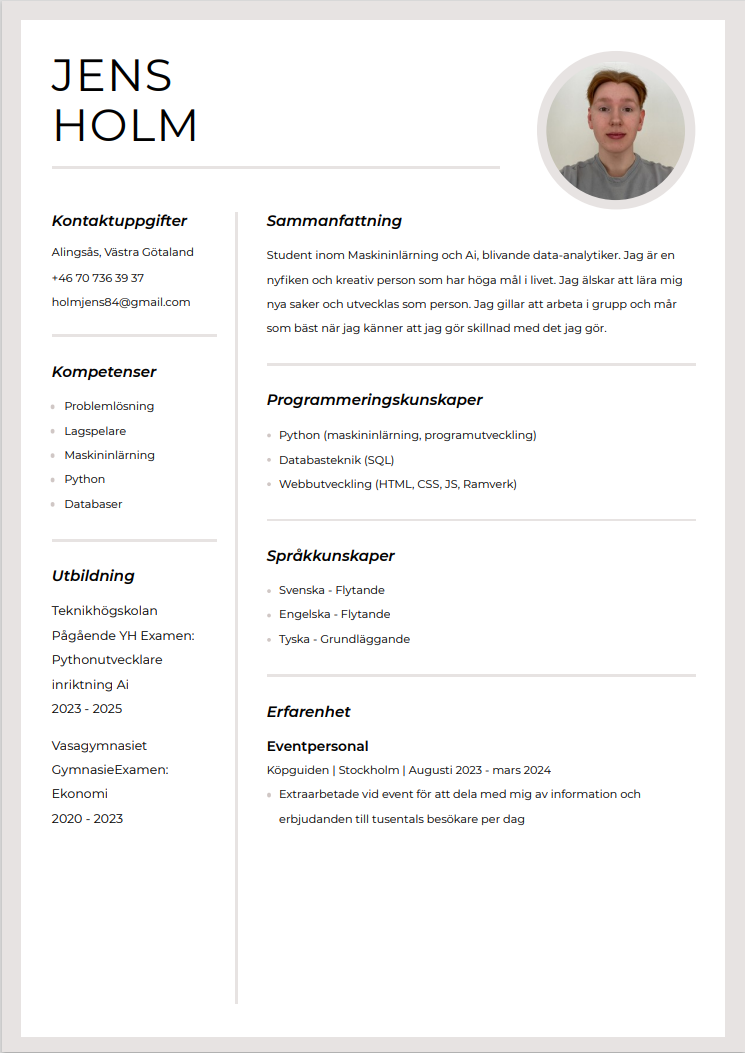
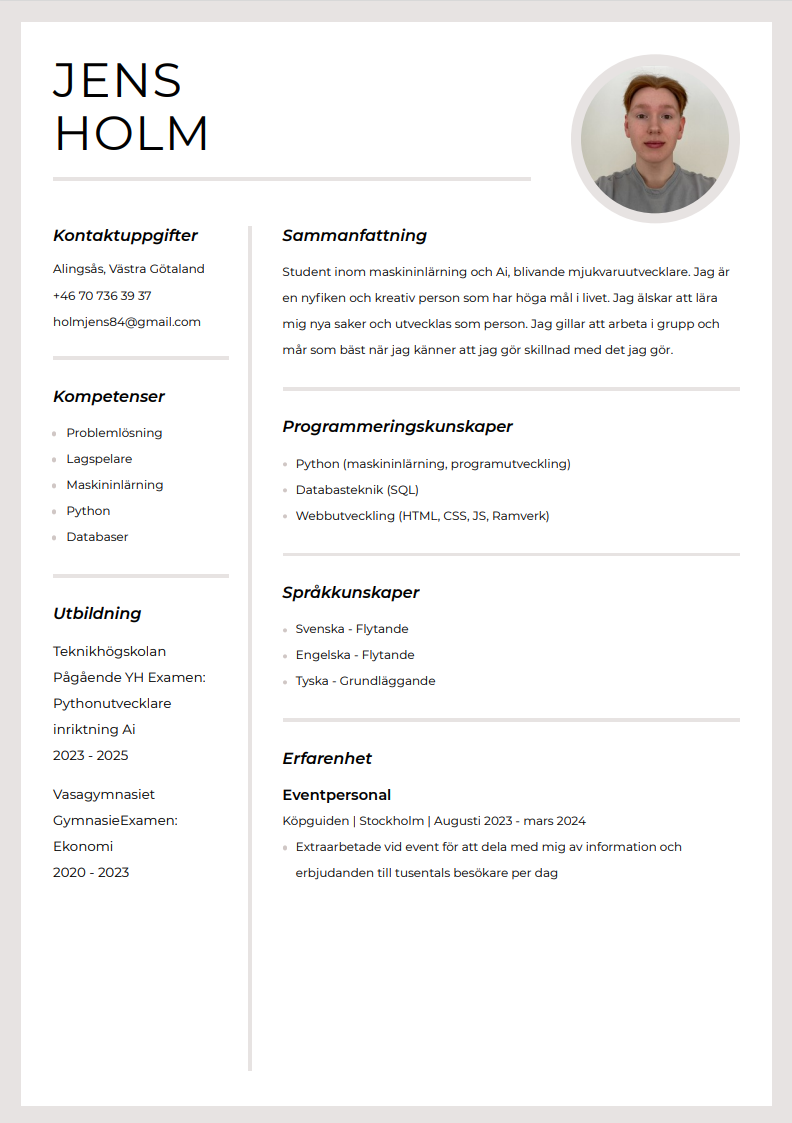
bytt inriktning

diff --git a/css/styles.css b/css/styles.css
@@ -50,7 +50,7 @@ body {
     margin-left: 1%;
     margin-top: 1%;
     min-height: 200px;
-    max-height: 400px;
+    max-height: 450px;
     background-color: rgba(77, 121, 69, 0.212);
     border-radius: 10px;
 }
@@ -63,8 +63,10 @@ body {
 #profilepic {
     margin-inline: auto;
     margin-top: 20px;
-    width: 200px; 
-    height: 200px;
+    min-width: 200px; 
+    min-height: 200px;
+    max-width: 300px;
+    max-height: 300px;
     
 }
 

diff --git a/index.html b/index.html
@@ -19,7 +19,7 @@
             
             <div id="">
                 <h1 class="item">Jens Holm</h1>
-                <h2 class="item">Framtidens Data Analytiker</h2>
+                <h2 class="item">Framtidens Mjukvara Utvecklare</h2>
             </div>
 
             <div id="links">
